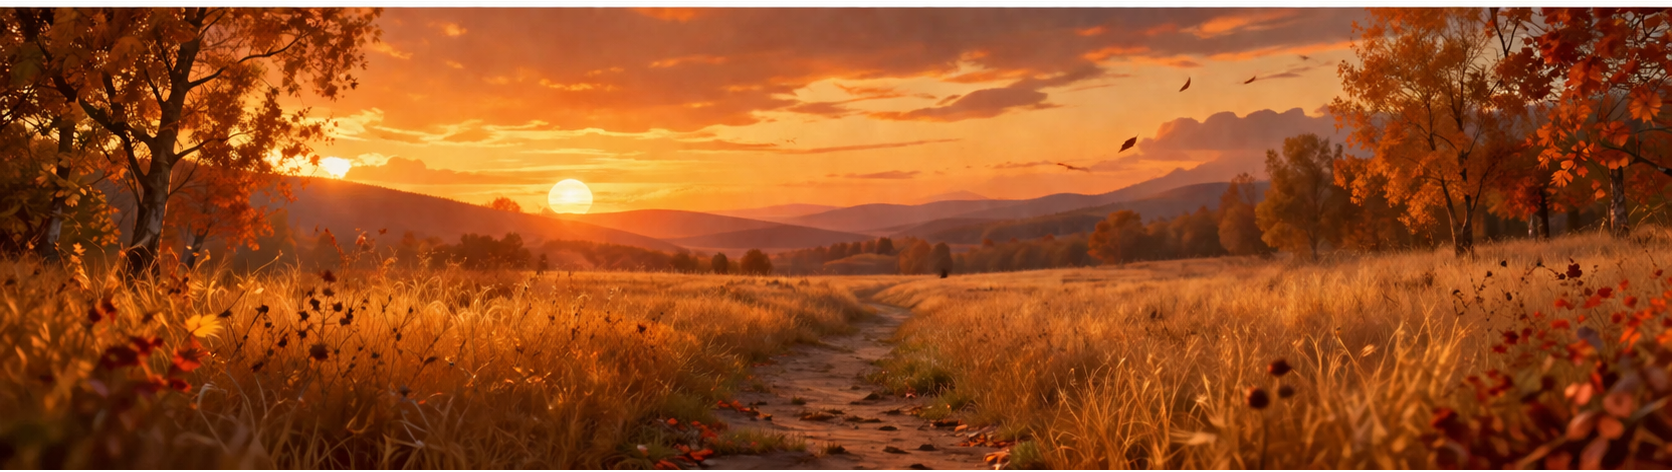
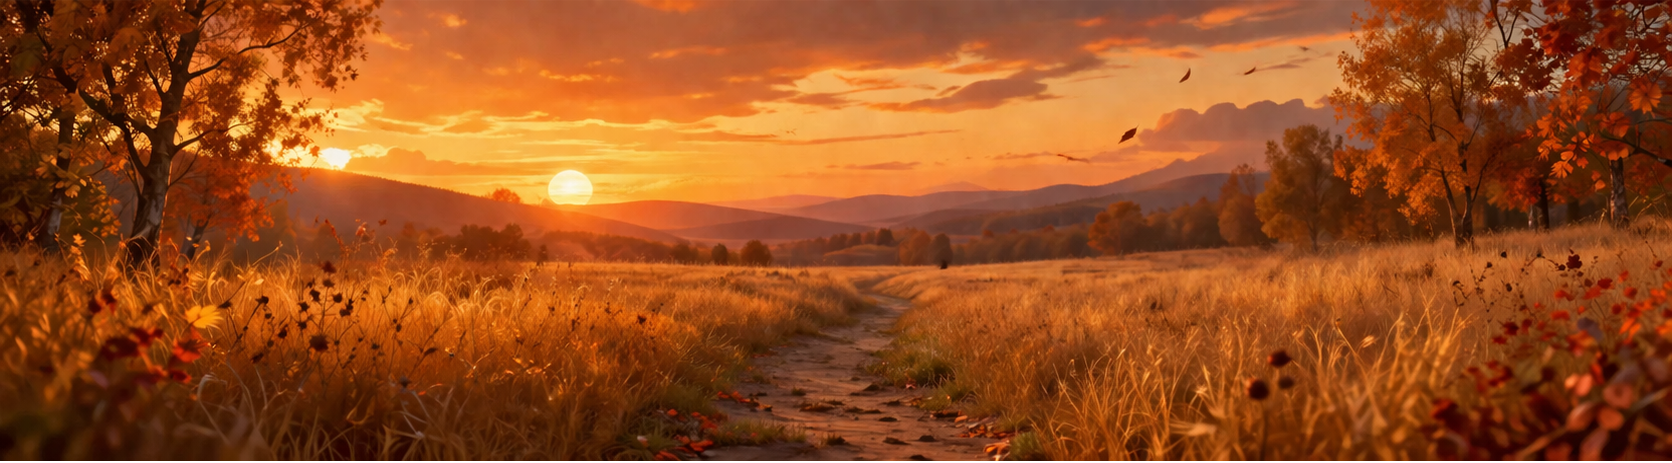
Ajout police Roboto + fix events

diff --git a/src/modules/welcomeImage.js b/src/modules/welcomeImage.js
@@ -3,7 +3,6 @@ const path = require('path');
 
 const ASSETS_PATH = path.join(__dirname, '../assets');
 
-// Enregistre la police AVANT de créer le canvas
 registerFont(path.join(ASSETS_PATH, 'Roboto-Bold.ttf'), { family: 'Roboto' });
 
 async function generateWelcomeImage(user, type = 'welcome') {
@@ -25,7 +24,7 @@ async function generateWelcomeImage(user, type = 'welcome') {
   // ── 3. Avatar en cercle ─────────────────────────────────
   const avatarSize = 100;
   const avatarX = width / 2;
-  const avatarY = height / 2 - 20;
+  const avatarY = height / 2 - 30;
 
   const avatarURL = user.displayAvatarURL({ extension: 'png', size: 256 });
   const avatar = await loadImage(avatarURL);
@@ -45,29 +44,40 @@ async function generateWelcomeImage(user, type = 'welcome') {
   ctx.drawImage(avatar, avatarX - avatarSize / 2, avatarY - avatarSize / 2, avatarSize, avatarSize);
   ctx.restore();
 
-  // ── 4. Texte principal ──────────────────────────────────
-  const title = type === 'welcome' ? 'BIENVENUE' : 'AU REVOIR';
-  const titleColor = type === 'welcome' ? '#2ecc71' : '#e74c3c';
-
+  // ── 4. Textes selon le type ─────────────────────────────
   ctx.textAlign = 'center';
   ctx.textBaseline = 'middle';
 
-  // Ombre
-  ctx.fillStyle = '#000000';
-  ctx.font = '40px Roboto';
-  ctx.fillText(title, width / 2 + 2, avatarY + avatarSize / 2 + 42);
+  if (type === 'welcome') {
+    // Titre "BIENVENUE DANS LA PRAIRIE"
+    ctx.fillStyle = '#000000';
+    ctx.font = '32px Roboto';
+    ctx.fillText('BIENVENUE DANS LA PRAIRIE', width / 2 + 2, avatarY + avatarSize / 2 + 35);
+    ctx.fillStyle = '#2ecc71';
+    ctx.fillText('BIENVENUE DANS LA PRAIRIE', width / 2, avatarY + avatarSize / 2 + 33);
 
-  // Texte
-  ctx.fillStyle = titleColor;
-  ctx.fillText(title, width / 2, avatarY + avatarSize / 2 + 40);
+    // Pseudo
+    ctx.fillStyle = '#000000';
+    ctx.font = '24px Roboto';
+    ctx.fillText(user.username.toUpperCase(), width / 2 + 2, avatarY + avatarSize / 2 + 65);
+    ctx.fillStyle = '#ffffff';
+    ctx.fillText(user.username.toUpperCase(), width / 2, avatarY + avatarSize / 2 + 63);
 
-  // ── 5. Pseudo ───────────────────────────────────────────
-  ctx.fillStyle = '#000000';
-  ctx.font = '28px Roboto';
-  ctx.fillText(user.username.toUpperCase(), width / 2 + 2, avatarY + avatarSize / 2 + 77);
+  } else {
+    // Titre "À LA PROCHAINE..."
+    ctx.fillStyle = '#000000';
+    ctx.font = '32px Roboto';
+    ctx.fillText('À LA PROCHAINE...', width / 2 + 2, avatarY + avatarSize / 2 + 35);
+    ctx.fillStyle = '#e74c3c';
+    ctx.fillText('À LA PROCHAINE...', width / 2, avatarY + avatarSize / 2 + 33);
 
-  ctx.fillStyle = '#ffffff';
-  ctx.fillText(user.username.toUpperCase(), width / 2, avatarY + avatarSize / 2 + 75);
+    // Pseudo
+    ctx.fillStyle = '#000000';
+    ctx.font = '24px Roboto';
+    ctx.fillText(user.username.toUpperCase(), width / 2 + 2, avatarY + avatarSize / 2 + 65);
+    ctx.fillStyle = '#ffffff';
+    ctx.fillText(user.username.toUpperCase(), width / 2, avatarY + avatarSize / 2 + 63);
+  }
 
   return canvas.toBuffer('image/png');
 }

diff --git a/src/events/guildMemberRemove.js b/src/events/guildMemberRemove.js
@@ -1,5 +1,4 @@
-// src/events/guildMemberRemove.js
-const { AttachmentBuilder } = require('discord.js');
+const { AttachmentBuilder, EmbedBuilder } = require('discord.js');
 const { supabase } = require('../lib/supabase');
 const { generateWelcomeImage } = require('../modules/welcomeImage');
 
@@ -9,17 +8,24 @@ module.exports = {
     console.log(`[Leave] ${member.user.username} a quitté le serveur`);
     
     try {
-      // Fetch le channel au lieu de le récupérer du cache
       const channel = await member.guild.channels.fetch(process.env.LEAVE_CHANNEL_ID);
       
       if (channel) {
         const imageBuffer = await generateWelcomeImage(member.user, 'leave');
         const attachment = new AttachmentBuilder(imageBuffer, { name: 'leave.png' });
 
-        await channel.send({ 
-          content: `${member.user.username} a quitté la Prairie 🍂`,
-          files: [attachment] 
-        });
+        const embed = new EmbedBuilder()
+          .setColor('#e74c3c')
+          .setDescription(
+            `### 🍂 Une feuille s'envole...\n\n` +
+            `**${member.user.username}** s'est envolé avec les feuilles mortes...\n` +
+            `On garde ta place au chaud, reviens quand tu veux ! 🌾`
+          )
+          .setImage('attachment://leave.png')
+          .setFooter({ text: 'Prairie Brawl Stars • À bientôt peut-être...' })
+          .setTimestamp();
+
+        await channel.send({ embeds: [embed], files: [attachment] });
         console.log(`[Leave] Message envoyé dans ${channel.name}`);
       } else {
         console.log('[Leave] Channel introuvable');
@@ -28,7 +34,6 @@ module.exports = {
       console.error('[Leave] Erreur:', err);
     }
 
-    // Suppression Supabase
     const { error } = await supabase
       .from('members')
       .delete()

diff --git a/src/modules/welcome.js b/src/modules/welcome.js
@@ -1,24 +1,31 @@
-// src/modules/welcome.js
-const { AttachmentBuilder } = require('discord.js');
+const { AttachmentBuilder, EmbedBuilder } = require('discord.js');
 const { supabase } = require('../lib/supabase');
 const { generateWelcomeImage } = require('./welcomeImage');
 
 async function welcome(member) {
   const { guild, user } = member;
 
-  // ── 1. Message dans le général ──────────────────────────────
   const welcomeChannel = guild.channels.cache.get(process.env.WELCOME_CHANNEL_ID);
   if (welcomeChannel) {
     const imageBuffer = await generateWelcomeImage(user, 'welcome');
     const attachment = new AttachmentBuilder(imageBuffer, { name: 'welcome.png' });
 
-    await welcomeChannel.send({ 
-      content: `Bienvenue ${user} ! Installe-toi et choisis tes rôles 🌿`,
-      files: [attachment] 
-    });
+    const embed = new EmbedBuilder()
+      .setColor('#2ecc71')
+      .setDescription(
+        `### 🌿 Une nouvelle pousse a rejoint la Prairie !\n\n` +
+        `Hey ${user}, installe-toi et fais comme chez toi !\n\n` +
+        `💬 **Viens te présenter** → <#1173550145955180618>\n` +
+        `🎮 **Lie ton compte BS** → \`/lier #TAG\` dans <#1173729682546495589>\n` +
+        `🎙 **Passe en vocal** → On est toujours chauds pour jouer !`
+      )
+      .setImage('attachment://welcome.png')
+      .setFooter({ text: 'Prairie Brawl Stars • Fais comme chez toi 🌿' })
+      .setTimestamp();
+
+    await welcomeChannel.send({ embeds: [embed], files: [attachment] });
   }
 
-  // ── 2. Enregistrement Supabase ───────────────────────────────
   const { error } = await supabase
     .from('members')
     .upsert({
